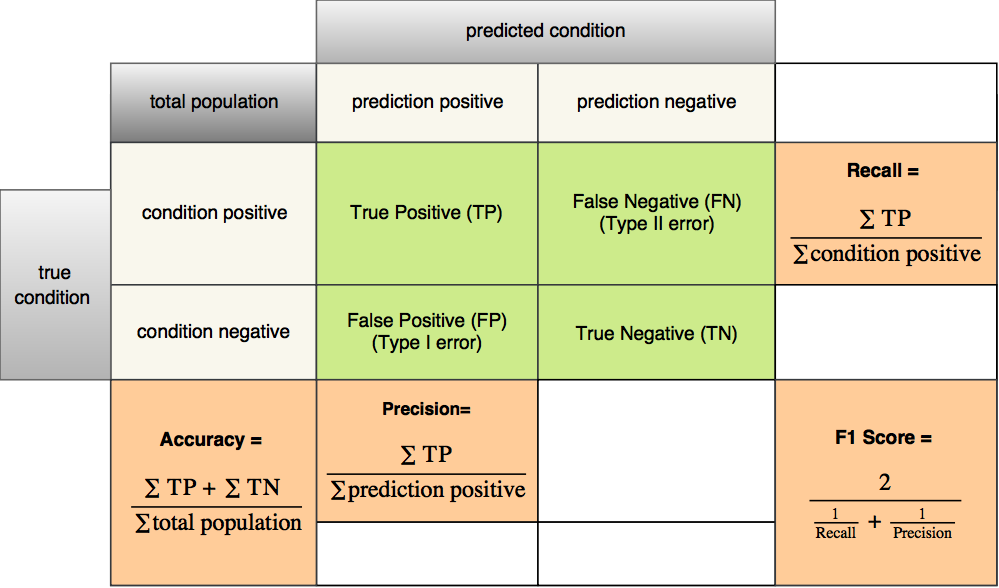
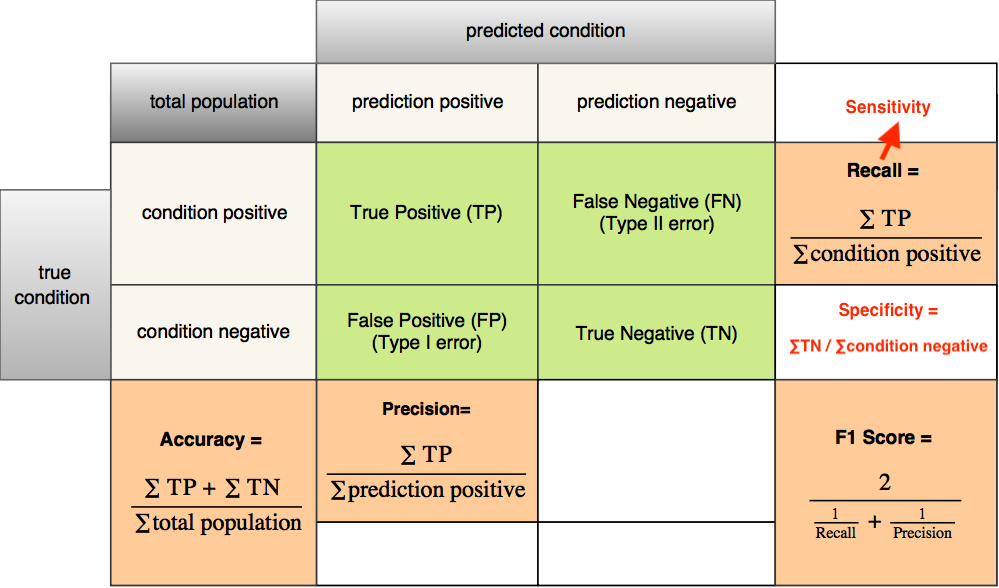
update blog

Changed region(s): [[0.8378, 0.1531, 0.9309, 0.2755], [0.7758, 0.5816, 0.993, 0.6122], [0.8378, 0.5204, 0.9309, 0.551]]

diff --git a/_posts/2018-02-13-model-evaluation-metrics.md b/_posts/2018-02-13-model-evaluation-metrics.md
@@ -1,6 +1,6 @@
 ---
 layout:         post
-title:          Machine Learning Model Evaluation Metrics
+title:          Machine Learning Classification Model Evaluation Metrics
 subtitle:
 card-image:     /assets/images/manandcat2.gif
 date:           2018-02-13 09:00:00
@@ -9,7 +9,7 @@ categories:     [machine&nbsp;learning]
 post-card-type: image
 ---
 
-After training the machine learning model, we should always evaluate the model to determine if it does a good job of predicting the target value on new unseen data. Among the various metrics that could be used to evaluate the predictive power of a machine learning model (especially for classification models), several most commonly used ones are: accuracy, precision, recall, and F1 score.
+After training the machine learning classification model, we should always evaluate the model to determine if it does a good job of predicting the target value on new unseen data. Among the various metrics that could be used to evaluate the predictive power of a machine learning classification model, several most commonly used ones are: accuracy, precision, recall, F1 score, and AUC.
 
 One common headache newcomers to machine learning have is to differentiate the nuances among the distinct evaluation metrics. I came across the same issue when I was in my first machine learning class. Back to that time, I searched extensively online and read a bunch of articles trying to figure out which one is which. And I found that the most efficient way to untangle this and fully understand the concepts is to use a contingency table, or called a confusion matrix.
 
@@ -33,7 +33,7 @@ Take a look at the following image. If a doctor predicts a man is pregnant which
 
 ### Accuracy, precision, recall, F1 score
 
-Now, let's get into the discussion of the four model evaluation metrics. First, the definitions:
+Now, let's get into the discussion of the first four model evaluation metrics. First, the definitions:
 
 **_Accuracy_**: the ratio of correctly predicted observations to total observations.
 
@@ -56,6 +56,38 @@ Then, we could get:
 **_Recall_** = 25/40 = 0.625
 
 **_F1 score_** = 2x0.83x0.625/(0.83+0.625) = 0.71
+
+### ROC curve
+
+Another commonly used evaluation metric for binary classification is called Area Under Curve (AUC). Normally the curve refers to the Receiver Operating Characteristic (ROC) curve. ROC curve plots the False Positive rate (1-specificity) versus the True Positive rate (sensitivity) for each possible threshold value used.
+
+ROC is composed of sensitivity and specificity:
+
+_**Sensitivity**_ is actually *recall*. It is the ratio of correctly predicted positive observations to the total actual positive observations.
+
+_**specificity**_ is the ratio of correctly predicted negative observations to the total actual positive observations.
+
+So how is ROC plotted exactly? Let's look at an example.
+
+Again, assume your classification model is to predict whether or not an image contains a cat. Your testing set contains 100 images. And 70 images actually contain a cat, 30 images do not.
+
+If you select a cut-off point such that the model classifies 0 images as cat, 100 as not cat. Then we could get: _sensitivity_ = 0/70 = 0, (1-_specificity_) = 1 - 30/30 = 0. The curve will pass the point (0, 0).
+
+If you select another cut-off point such that the model classifies 40 images as cat, 60 as not cat. Of the 40 positive predicted images, 35 of them actually contain a cat. Of the 60 negative predicted images, 35 of them contain a cat. Then we could get: _sensitivity_ = 35/70 = 0.50, (1-_specificity_) = 1 - 25/30 = 0.16. The curve will pass the point (0.16, 0.50).
+
+If you select another cut-off point such that the model classifies 60 images as cat, 40 as not cat. Of the 60 positive predicted images, 50 of them actually contain a cat. Of the 40 negative predicted images, 20 of them contain a cat. Then we could get: _sensitivity_ = 50/70 = 0.71, (1-_specificity_) = 1 - 20/30 = 0.33. The curve will pass the point (0.33, 0.71).
+
+If you select another cut-off point such that the model classifies 80 images as cat, 20 as not cat. Of the 80 positive predicted images, 60 of them actually contain a cat. Of the 20 negative predicted images, 10 of them contain a cat. Then we could get: _sensitivity_ = 60/70 = 0.86, (1-_specificity_) = 1 - 10/30 = 0.67. The curve will pass the point (0.67, 0.86).
+
+If you select another cut-off point such that the model classifies all 100 images as cat, 0 as not cat. Then we could get: _sensitivity_ = 70/70 = 1, (1-_specificity_) = 1 - 0/30 = 1. The curve will pass the point (1, 1).
+
+These are just a few toy points you could possibly get. If you keep selecting different cut-off points and you'll end up with different sensitivity and specificity values and hence different points on the ROC curve. If you plot the curve, you would get something look like the following. The blue line is the ROC curve.
+
+![roc curve](/assets/images/roc.jpg)
+
+For a perfect model that correctly classifies every instance, the ROC curve will pass through the upper left corner. The closer the curve comes to the upper left corner, the better the classification performance. The closer the curve comes to the 45-degree diagonal, the worse the classification performance.
+
+The area under the curve (AUC) is an evaluation metric that can be obtained from the ROC curve. If the classifier is perfect at predicting, the AUC will be close to 0. If the classifier is no better than random guessing, the AUC will be around 0.5.
 
 ### Conclusion
 
